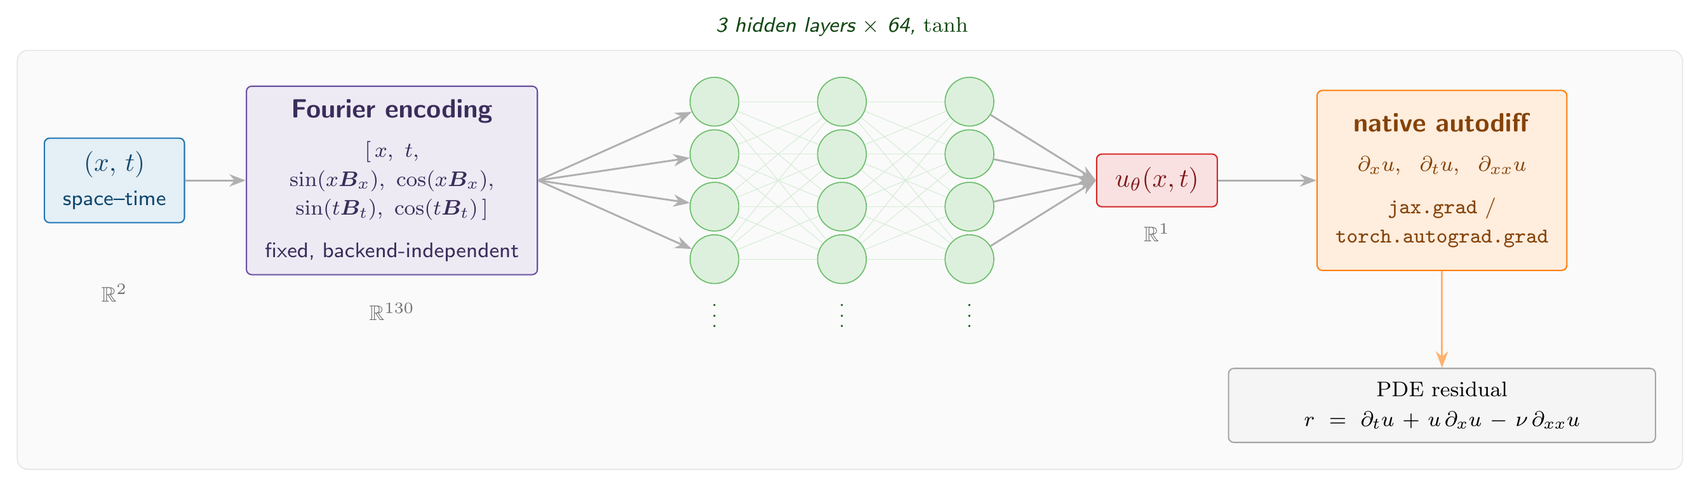
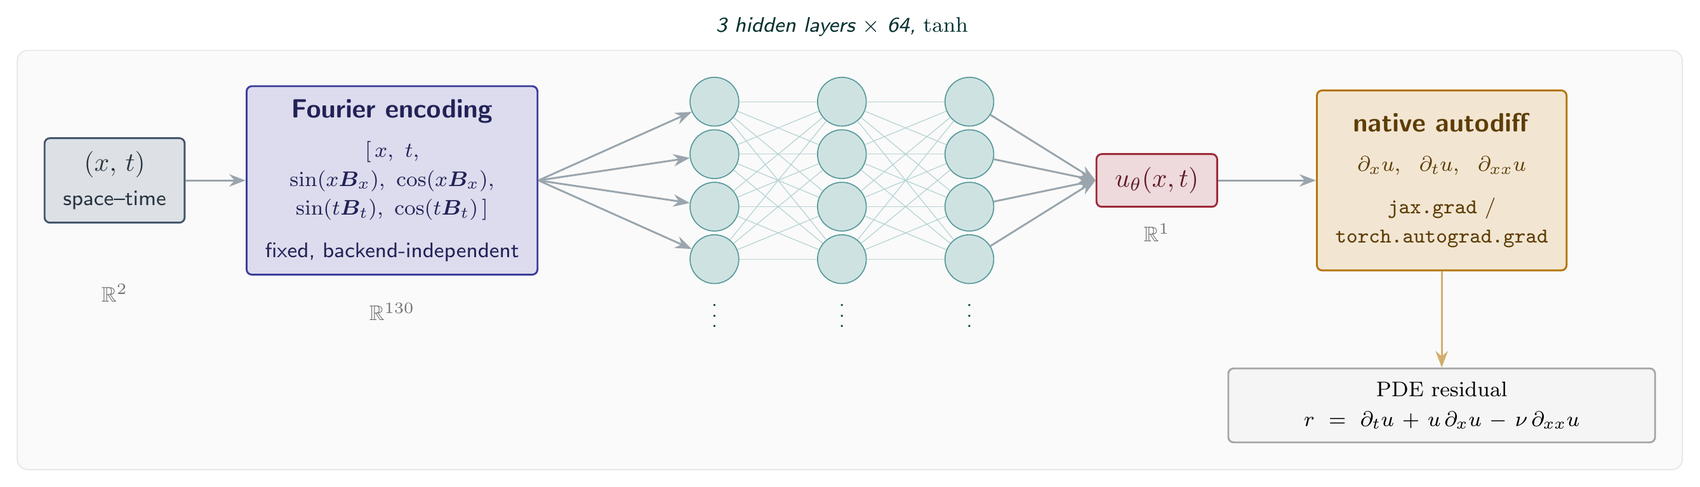
docs: unify TikZ diagrams on a refined deep palette
Replace the tab10 pastels with one shared brand palette across all three
schematics (teal=solver/simulate, indigo=PINN/train, crimson=posterior/infer,
amber=gradient/VJP, slate/ink for structure), with richer fills and thicker
strokes.

diff --git a/docs/system_architecture.tex b/docs/system_architecture.tex
@@ -12,22 +12,24 @@
 \usetikzlibrary{positioning, arrows.meta, backgrounds, fit, calc}
 \pagestyle{empty}
 
-\definecolor{cLoop}{HTML}{37474F}    % outer loop (dark slate)
-\definecolor{cBar}{HTML}{546E7A}     % contract bar
-\definecolor{cSolver}{HTML}{1F77B4}  % solver (blue)
-\definecolor{cPinn}{HTML}{2CA02C}    % PINN (green)
-\definecolor{cFmpe}{HTML}{6A51A3}    % posterior (purple)
+% Shared brand palette (refined light)
+\definecolor{cLoop}{HTML}{2B3A47}    % ink slate (outer loop)
+\definecolor{cBar}{HTML}{44566C}     % slate (contract bar)
+\definecolor{cSolver}{HTML}{0E6E6E}  % deep teal (solver)
+\definecolor{cPinn}{HTML}{3D3D9E}    % indigo (PINN)
+\definecolor{cFmpe}{HTML}{9E2B3A}    % crimson (posterior)
+\definecolor{cGrad}{HTML}{B5760A}    % amber (gradient / VJP)
 
 \begin{document}
 \noindent
 \begin{tikzpicture}[
   font=\sffamily,
   >={Stealth[length=2.4mm]},
-  comp/.style={rounded corners=3pt, draw=black!45, line width=0.6pt,
+  comp/.style={rounded corners=3pt, draw=black!45, line width=0.8pt,
                align=center, minimum width=52mm, minimum height=21mm,
                inner sep=5pt},
   applyarr/.style={->, draw=black!45, line width=0.8pt},
-  vjparr/.style={->, draw=cPinn!75!black, line width=0.8pt},
+  vjparr/.style={->, draw=cGrad!85!black, line width=0.9pt},
   tag/.style={font=\sffamily\scriptsize, text=black!55},
 ]
 
@@ -39,7 +41,7 @@
    reverse-mode pass per step)};
 
 % ---- Tesseract contract bar -------------------------------------------
-\node[rounded corners=3pt, fill=cBar!16, draw=cBar, text=cBar!45!black,
+\node[rounded corners=3pt, fill=cBar!20, draw=cBar, text=cBar!45!black,
       align=center, minimum width=176mm, minimum height=12mm, inner sep=4pt]
       (bar) at (9,3.4)
   {\textbf{Tesseract contract}\ \ --- \ \ one typed
@@ -50,19 +52,19 @@
   node[midway, right=1pt, tag, text=cLoop] {drives every method};
 
 % ---- Three swappable components ---------------------------------------
-\node[comp, fill=cSolver!10, draw=cSolver, text=cSolver!55!black] (solver) at (3,0.2)
+\node[comp, fill=cSolver!18, draw=cSolver, text=cSolver!55!black] (solver) at (3,0.2)
   {\textbf{burgers\_solver}\\[2pt]
    \footnotesize differentiable spectral\\[-1pt]
    \footnotesize Burgers solver (JAX)\\[3pt]
    \footnotesize VJP $=$ PDE adjoint};
 
-\node[comp, fill=cPinn!10, draw=cPinn, text=cPinn!45!black] (pinn) at (9,0.2)
+\node[comp, fill=cPinn!18, draw=cPinn, text=cPinn!45!black] (pinn) at (9,0.2)
   {\textbf{PINN}\\[2pt]
    \footnotesize\texttt{pinn\_jax}\ \ $\bm{\rightleftarrows}$\ \ \texttt{pinn\_pytorch}\\[3pt]
    \footnotesize VJP $=$ native autograd\\[-1pt]
    \footnotesize (\texttt{jax.grad} / \texttt{torch})};
 
-\node[comp, fill=cFmpe!10, draw=cFmpe, text=cFmpe!50!black] (fmpe) at (15,0.2)
+\node[comp, fill=cFmpe!18, draw=cFmpe, text=cFmpe!50!black] (fmpe) at (15,0.2)
   {\textbf{fmpe\_posterior}\\[2pt]
    \footnotesize amortized flow posterior\\[3pt]
    \footnotesize \emph{apply-only} --- no VJP\\[-1pt]
@@ -80,7 +82,7 @@
 
 % small legend for the two arrow directions, in the gap below the contract bar
 \node[tag, anchor=west] at (0.5,2.5) {$\downarrow$ \texttt{apply}};
-\node[tag, anchor=west, text=cPinn!70!black] at (0.5,2.06) {$\uparrow$ VJP (gradient)};
+\node[tag, anchor=west, text=cGrad!80!black] at (0.5,2.06) {$\uparrow$ VJP (gradient)};
 
 % ---- swappability caption ---------------------------------------------
 \node[font=\sffamily\footnotesize\itshape, text=black!60, align=center]

diff --git a/docs/sbi_workflow.tex b/docs/sbi_workflow.tex
@@ -11,17 +11,18 @@
 \usetikzlibrary{positioning, arrows.meta, backgrounds, fit, calc}
 \pagestyle{empty}
 
-\definecolor{cSim}{HTML}{1F77B4}    % simulate (blue, uses solver)
-\definecolor{cTrain}{HTML}{6A51A3}  % train flow (purple)
-\definecolor{cInfer}{HTML}{D62728}  % inference (red)
-\definecolor{cStage}{HTML}{90A4AE}
+% Shared brand palette (refined light): teal -> indigo -> crimson progression
+\definecolor{cSim}{HTML}{0E6E6E}    % deep teal (simulate, uses solver)
+\definecolor{cTrain}{HTML}{3D3D9E}  % indigo (train flow)
+\definecolor{cInfer}{HTML}{9E2B3A}  % crimson (inference)
+\definecolor{cStage}{HTML}{44566C}  % slate
 
 \begin{document}
 \noindent
 \begin{tikzpicture}[
   font=\sffamily,
   >={Stealth[length=2.6mm]},
-  stage/.style={rounded corners=4pt, line width=0.7pt, align=center,
+  stage/.style={rounded corners=4pt, line width=0.9pt, align=center,
                 minimum width=60mm, minimum height=44mm, inner sep=7pt},
   pill/.style={rounded corners=2pt, draw=black!35, fill=white,
                align=center, font=\footnotesize, inner sep=4pt,
@@ -33,11 +34,11 @@
 ]
 
 % ====================== Stage 1: simulate (offline) ====================
-\node[stage, fill=cSim!8, draw=cSim] (s1) at (0,0) {};
+\node[stage, fill=cSim!15, draw=cSim] (s1) at (0,0) {};
 \node[head, text=cSim!55!black, anchor=north] at (s1.north) {1 \, Simulate (offline)};
 \node[pill, draw=cSim!55] (prior) at (0,0.8)
   {prior \ $\bm{\theta}=(\nu, A_{\mathrm{IC}}, \varphi_{\mathrm{IC}})$};
-\node[pill, draw=cSim!55, fill=cSim!10] (solv) at (0,-0.35)
+\node[pill, draw=cSim!55, fill=cSim!18] (solv) at (0,-0.35)
   {\texttt{burgers\_solver}};
 \node[pill, draw=cSim!55] (xobs) at (0,-1.5)
   {sparse noisy $\bm{x}_{\mathrm{obs}}$};
@@ -46,11 +47,11 @@
 \node[note, anchor=north] at (s1.south) {$\sim\!10^4$ draws $(\bm{\theta},\bm{x})$};
 
 % ====================== Stage 2: train the flow ========================
-\node[stage, fill=cTrain!8, draw=cTrain] (s2) at (7.4,0) {};
+\node[stage, fill=cTrain!15, draw=cTrain] (s2) at (7.4,0) {};
 \node[head, text=cTrain!50!black, anchor=north] at (s2.north) {2 \, Train the flow};
 \node[pill, draw=cTrain!55] (pairs) at (7.4,0.8)
   {pairs $(\bm{\theta},\bm{x})$};
-\node[pill, draw=cTrain!55, fill=cTrain!10] (fmpe) at (7.4,-0.35)
+\node[pill, draw=cTrain!55, fill=cTrain!18] (fmpe) at (7.4,-0.35)
   {FMPE \ (flow matching, \texttt{zuko})};
 \node[pill, draw=cTrain!55] (qnet) at (7.4,-1.5)
   {amortized $q_\phi(\bm{\theta}\mid\bm{x})$};
@@ -59,11 +60,11 @@
 \node[note, anchor=north] at (s2.south) {packaged as the \texttt{fmpe\_posterior} Tesseract};
 
 % ====================== Stage 3: amortized inference ===================
-\node[stage, fill=cInfer!7, draw=cInfer] (s3) at (14.8,0) {};
+\node[stage, fill=cInfer!15, draw=cInfer] (s3) at (14.8,0) {};
 \node[head, text=cInfer!55!black, anchor=north] at (s3.north) {3 \, Infer (one pass)};
 \node[pill, draw=cInfer!55] (newx) at (14.8,0.8)
   {new observation $\bm{x}$};
-\node[pill, draw=cInfer!55, fill=cInfer!8] (post) at (14.8,-0.35)
+\node[pill, draw=cInfer!55, fill=cInfer!18] (post) at (14.8,-0.35)
   {posterior samples $\bm{\theta}\sim q_\phi$};
 \node[pill, draw=cInfer!55] (diag) at (14.8,-1.5)
   {marginals $+$ SBC / TARP};

diff --git a/docs/pinn_architecture.tex b/docs/pinn_architecture.tex
@@ -11,32 +11,33 @@
 \usetikzlibrary{positioning, arrows.meta, backgrounds, fit, calc}
 \pagestyle{empty}
 
-\definecolor{cInput}{HTML}{1F77B4}
-\definecolor{cFourier}{HTML}{6A51A3}
-\definecolor{cHidden}{HTML}{2CA02C}
-\definecolor{cOut}{HTML}{D62728}
-\definecolor{cDeriv}{HTML}{FF7F0E}
-\definecolor{cEdge}{HTML}{B0B0B0}
+% Shared brand palette (refined light)
+\definecolor{cInput}{HTML}{44566C}    % slate
+\definecolor{cFourier}{HTML}{3D3D9E}  % indigo
+\definecolor{cHidden}{HTML}{0E6E6E}   % deep teal
+\definecolor{cOut}{HTML}{9E2B3A}      % crimson
+\definecolor{cDeriv}{HTML}{B5760A}    % amber
+\definecolor{cEdge}{HTML}{9AA5AD}     % muted gray
 
 \begin{document}
 \noindent
 \begin{tikzpicture}[
   font=\sffamily,
   >={Stealth[length=2.2mm]},
-  block/.style={rounded corners=2pt, draw=black!55, line width=0.5pt,
+  block/.style={rounded corners=2pt, draw=black!55, line width=0.7pt,
                 inner xsep=7pt, inner ysep=5pt, align=center},
-  neuron/.style={circle, draw=cHidden!70, fill=cHidden!16, line width=0.4pt,
+  neuron/.style={circle, draw=cHidden!70, fill=cHidden!20, line width=0.4pt,
                  minimum size=6.5mm},
   lab/.style={font=\sffamily\footnotesize\itshape, text=black!55},
   flow/.style={->, draw=cEdge, line width=0.7pt},
 ]
 
 % ---- Input coordinates -------------------------------------------------
-\node[block, fill=cInput!12, draw=cInput, text=cInput!60!black] (in) at (0,0)
+\node[block, fill=cInput!18, draw=cInput, text=cInput!60!black] (in) at (0,0)
   {$(x,\,t)$\\[1pt]\footnotesize space--time};
 
 % ---- Fixed Fourier feature encoding -----------------------------------
-\node[block, fill=cFourier!12, draw=cFourier, text=cFourier!55!black,
+\node[block, fill=cFourier!18, draw=cFourier, text=cFourier!55!black,
       minimum height=24mm] (fourier) at (3.7,0)
   {\textbf{Fourier encoding}\\[3pt]
    \footnotesize$[\,x,\ t,$\\[-1pt]
@@ -60,17 +61,17 @@
 % sparse inter-layer edges for readability
 \foreach \a in {1,2,3,4} {
   \foreach \b in {1,2,3,4} {
-    \draw[draw=cHidden!20, line width=0.25pt] (h1\a) -- (h2\b);
-    \draw[draw=cHidden!20, line width=0.25pt] (h2\a) -- (h3\b);
+    \draw[draw=cHidden!30, line width=0.3pt] (h1\a) -- (h2\b);
+    \draw[draw=cHidden!30, line width=0.3pt] (h2\a) -- (h3\b);
   }
 }
 
 % ---- Network output u ---------------------------------------------------
-\node[block, fill=cOut!14, draw=cOut, text=cOut!58!black] (u) at (13.9,0)
+\node[block, fill=cOut!18, draw=cOut, text=cOut!58!black] (u) at (13.9,0)
   {$u_\theta(x,t)$};
 
 % ---- Native autodiff derivatives ---------------------------------------
-\node[block, fill=cDeriv!14, draw=cDeriv, text=cDeriv!52!black,
+\node[block, fill=cDeriv!18, draw=cDeriv, text=cDeriv!52!black,
       minimum height=24mm] (deriv) at (17.7,0)
   {\textbf{native autodiff}\\[3pt]
    \footnotesize$\partial_x u,\ \ \partial_t u,\ \ \partial_{xx} u$\\[4pt]
